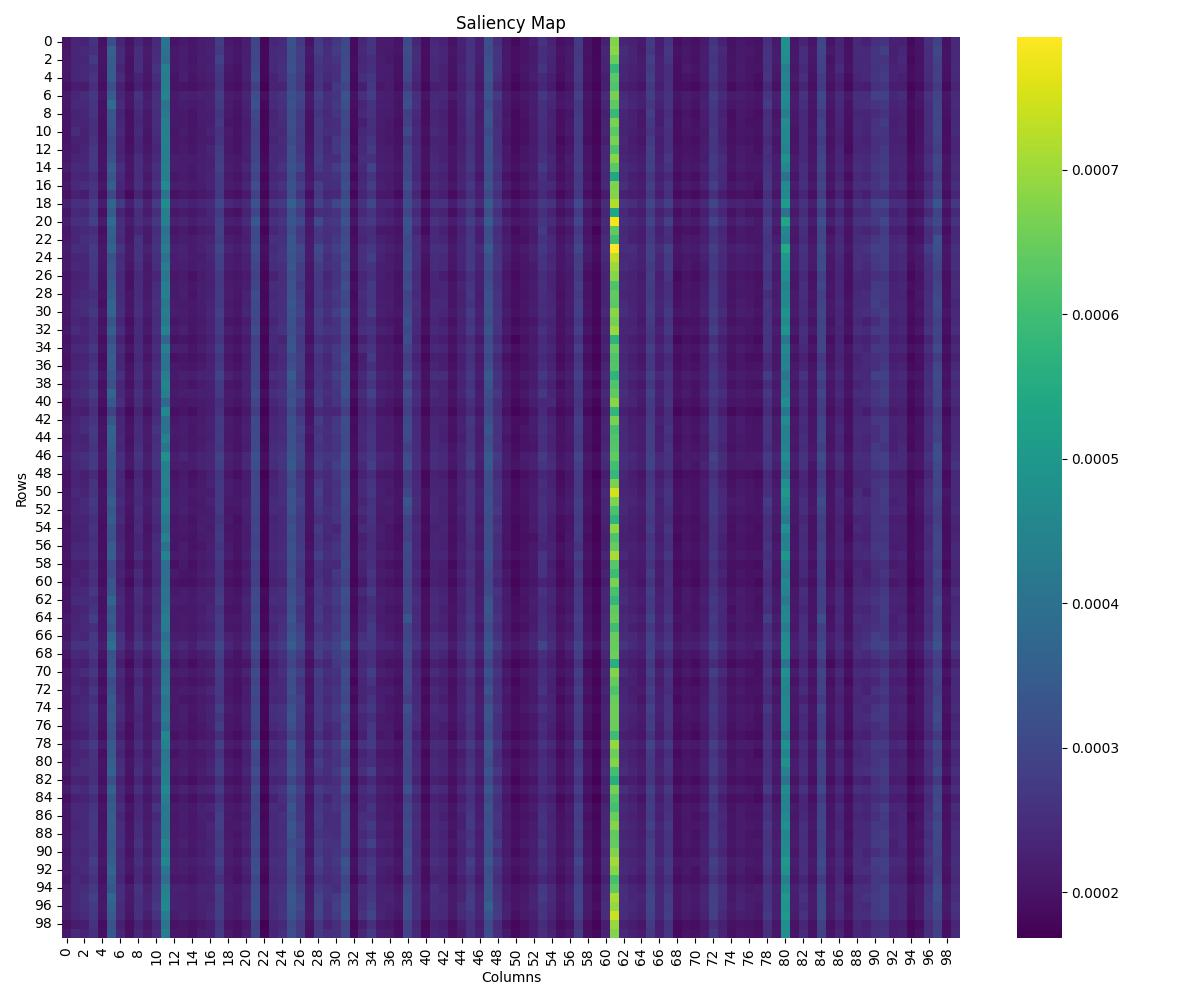
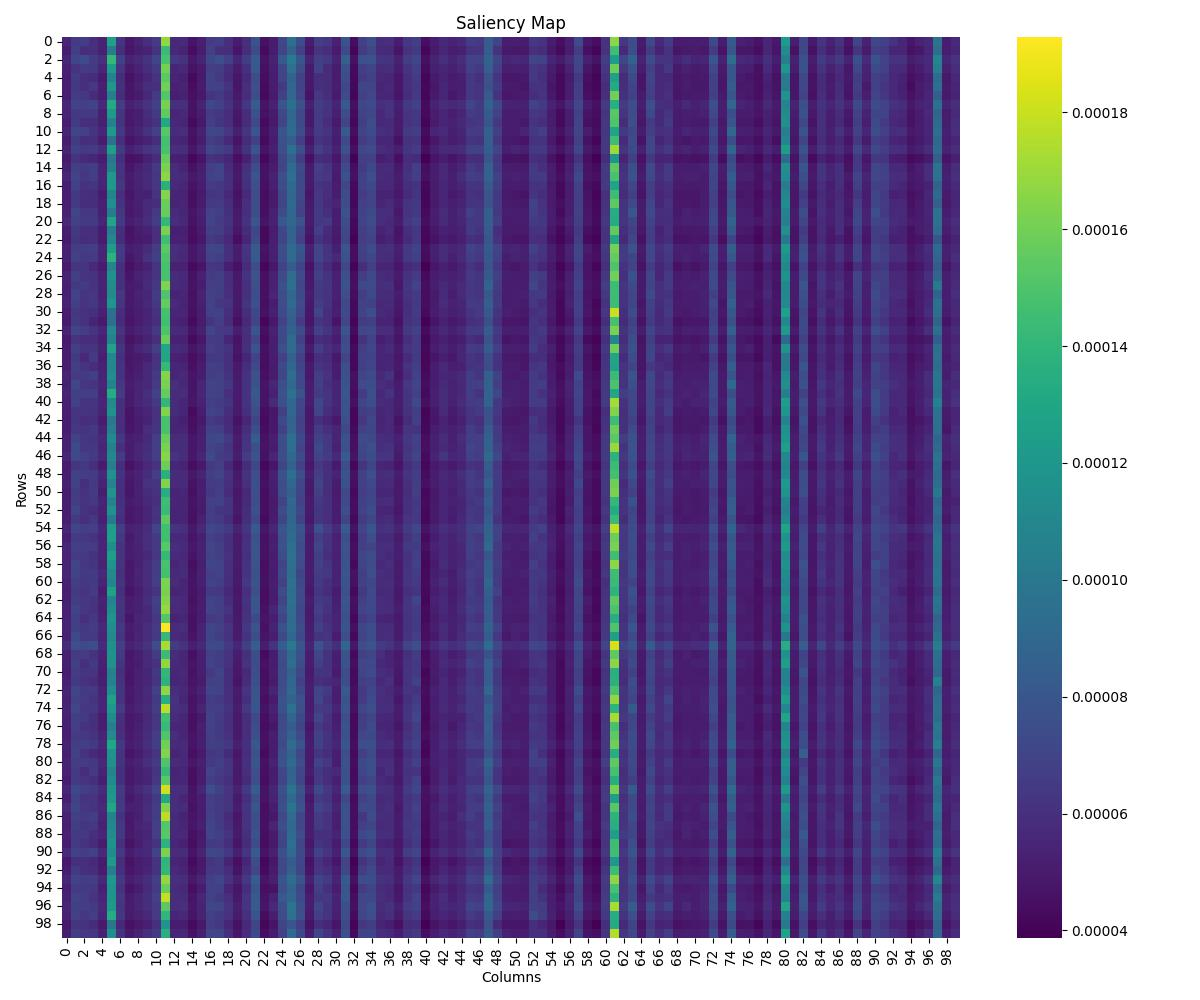
batch processing

diff --git a/select_submatrix_saliency_map.py b/select_submatrix_saliency_map.py
@@ -1,15 +1,18 @@
+from collections import defaultdict
 import json
 import os
 
 from matplotlib import pyplot as plt
 import torch
+from tqdm import tqdm
 from trl import TrlParser, ModelConfig, ScriptArguments
 
 from utils.monitoring import GPUMemoryStatsCallback, TrainingMonitor
-from trl.trainer.sft_trainer import SFTConfig
+from trl.trainer.sft_trainer import DataCollatorForLanguageModeling, SFTConfig
 from utils.logging import logger
 from utils.model_utils import load_and_configure_tokenizer, initialize_model, prepare_datasets, print_loss_through_whole_training
 import seaborn as sns
+from transformers import DataCollatorWithPadding
 
 
 def main():
@@ -43,12 +46,10 @@ def main():
     # Log initial memory stats
     TrainingMonitor.memory_stats()
     train_data = datasets["train"]
-    model.eval()
     model.requires_grad_(True)
 
-    # saliency_scores = compute_saliency_map(model, tokenizer, train_data[0]["prompt"], train_data[0]["answer"])
-    saliency_scores = compute_aggregated_saliency(model, tokenizer, train_data.select(range(0, 2)))
-    plot_saliency_map(training_args.output_dir, saliency_scores)
+    saliency_scores = compute_aggregated_saliency_batch(model, tokenizer, train_data.select(range(0, 2)))
+    plot_saliency_map(training_args.output_dir, saliency_scores["model.layers.0.mlp.down_proj.weight"])
 
 
 def plot_saliency_map(output_dir, saliency_scores):
@@ -71,80 +72,85 @@ def plot_saliency_map(output_dir, saliency_scores):
     os.makedirs(output_dir, exist_ok=True)
     plt.savefig(os.path.join(output_dir, "a.jpg"))
 
-def compute_saliency_map(model, tokenizer, prompt, answer):
-    """
-    Robust saliency map computation with length handling
-    """
-    # 1. Tokenize with same truncation for both
-    inputs = tokenizer(
-        prompt, 
-        return_tensors="pt", 
-    )
-    targets = tokenizer(
-        answer, 
-        return_tensors="pt", 
-    )
+def prepare_batch(batch, tokenizer):
+    full_texts = [p + a for p, a in zip(batch["prompt"], batch["completion"])]
+    encodings = tokenizer(full_texts, padding=False, truncation=True)
+    answer_encodings = tokenizer(batch["completion"], padding=False, truncation=True)
+    max_len = max(len(ids) for ids in encodings["input_ids"])
     
-    # 2. Align lengths by padding the shorter one
-    seq_len = max(inputs["input_ids"].shape[1], targets["input_ids"].shape[1])
-    inputs = tokenizer.pad(
-        inputs, 
-        padding="max_length", 
-        max_length=seq_len,
-        return_tensors="pt"
-    )
-    targets = tokenizer.pad(
-        targets,
-        padding="max_length",
-        max_length=seq_len,
-        return_tensors="pt"
-    )
+    input_ids = []
+    attention_mask = []
+    labels = []
     
-    # 3. Move to model device
-    inputs = {k: v.to(model.device) for k, v in inputs.items()}
-    targets = {k: v.to(model.device) for k, v in targets.items()}
+    for i in range(len(encodings["input_ids"])):
+        seq_len = len(encodings["input_ids"][i])
+        answer_len = len(answer_encodings["input_ids"][i])
+        prompt_len = seq_len - answer_len
+        
+        pad_len = max_len - seq_len
+        input_ids.append(encodings["input_ids"][i] + [tokenizer.pad_token_id] * pad_len)
+        attention_mask.append([1] * seq_len + [0] * pad_len)
+        
+        label = [-100] * prompt_len + answer_encodings["input_ids"][i] + [-100] * pad_len
+        labels.append(label)
     
-    # 4. Forward + backward
-    model.zero_grad()
-    outputs = model(**inputs, labels=targets["input_ids"])
+    return {
+        "input_ids": torch.tensor(input_ids),
+        "attention_mask": torch.tensor(attention_mask),
+        "labels": torch.tensor(labels)
+    }
 
-    loss = outputs.loss
-    loss.backward()
-    
-    down_proj_saliency = {}
-    for name, param in model.named_parameters():
-        if "down_proj" in name and param.requires_grad:
-            down_proj_saliency = param.grad.detach().abs().cpu()
-            break
-
-    return down_proj_saliency
-
-def compute_aggregated_saliency(model, tokenizer, train_data):
-    """
-    Accumulate saliency maps for all down_proj weights over entire training set.
-    """
+def compute_aggregated_saliency_batch(
+    model,
+    tokenizer,
+    dataset,
+    batch_size=16,
+    max_samples=None,
+    target_layers=["down_proj"]
+):
+    """不使用DataCollator的显著性计算"""
     model.eval()
-    model.requires_grad_(True)
+    
+    # 1. 只对目标层启用梯度
+    for name, param in model.named_parameters():
+        param.requires_grad = any(layer in name for layer in target_layers)
 
-    aggregated_saliency = None
-    num_samples = 0
+    num_samples = min(len(dataset), max_samples) if max_samples else len(dataset)
+    saliency_dict = defaultdict(lambda: 0)
+    device = model.device
 
-    for sample in train_data:
-        prompt, answer = sample["prompt"], sample["answer"]
-        saliency = compute_saliency_map(model, tokenizer, prompt, answer)
-        
-        if aggregated_saliency is None:
-            aggregated_saliency = saliency
-        else:
-            aggregated_saliency += saliency
-        
-        num_samples += 1
-        print(num_samples)
-
-    # Optional: average across samples
-    aggregated_saliency /= num_samples
-
-    return aggregated_saliency
+    for batch_start in tqdm(range(0, num_samples, batch_size), desc="Processing batches"):
+        try:
+            batch = dataset[batch_start : batch_start + batch_size]
+            batch_data = prepare_batch(batch, tokenizer)
+            
+            input_ids = batch_data["input_ids"].to(device)
+            attention_mask = batch_data["attention_mask"].to(device)
+            labels = batch_data["labels"].to(device)
+            
+            model.zero_grad()
+            outputs = model(
+                input_ids=input_ids,
+                attention_mask=attention_mask,
+                labels=labels
+            )
+            outputs.loss.backward()
+            
+            for name, param in model.named_parameters():
+                if param.grad is not None and any(layer in name for layer in target_layers):
+                    grad = param.grad.abs().detach().cpu()
+                    saliency_dict[name] += grad
+                    
+        except Exception as e:
+            print(f"Error processing batch {batch_start}: {str(e)}")
+            continue
+    
+    if num_samples > 0:
+        for name in saliency_dict:
+            if not isinstance(saliency_dict[name], int):
+                saliency_dict[name] /= num_samples
+    
+    return {k: v for k, v in saliency_dict.items() if not isinstance(v, int)}
 
 
 if __name__ == "__main__":
